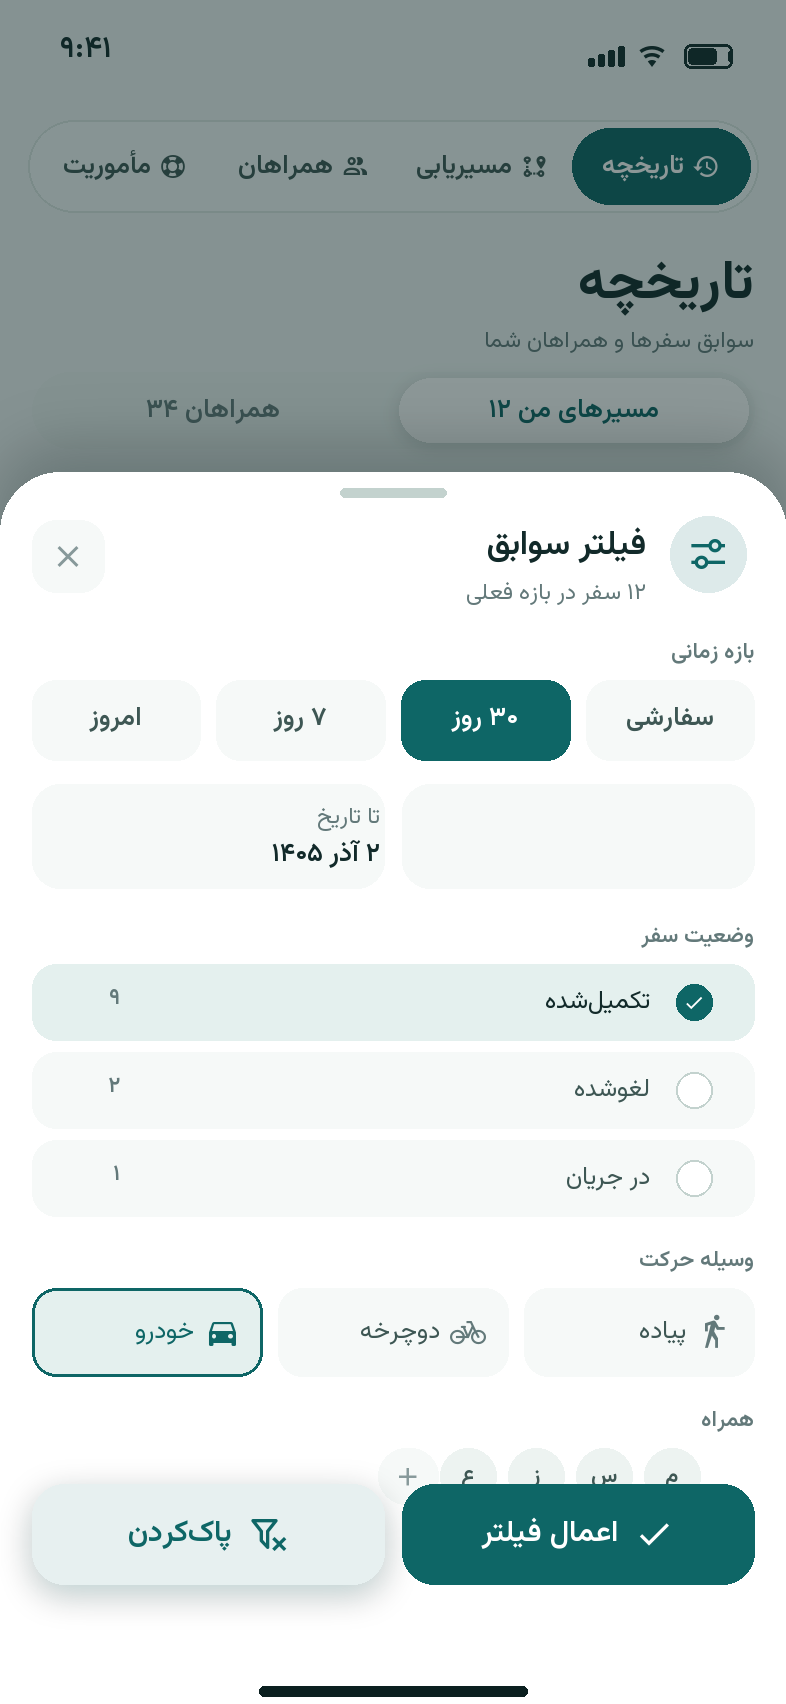
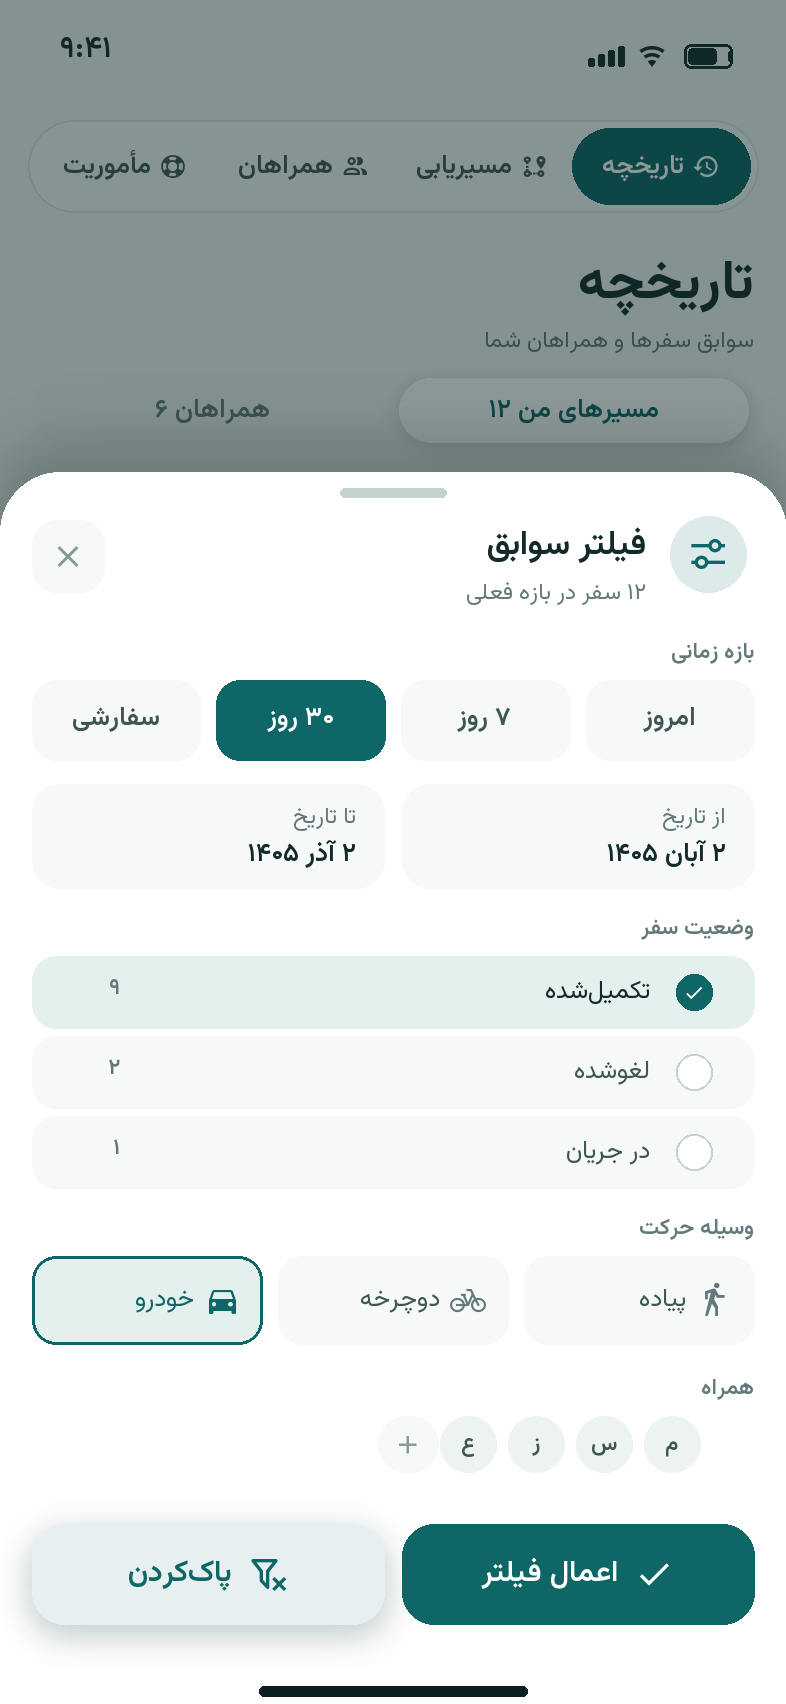
design(map): make the filter sheet and the companion counts agree with the list
- The two date fields had their labels in each other's box, so «از تاریخ» had no
  value and the sheet showed one blank field and one with two labels.
- Period presets read left-to-right while everything else in the set reads
  right-to-left; «امروز» is now the rightmost chip.
- The tab counter said «همراهان ۳۴» next to a list that says «۶ نفر». Counts are
  people now, and all three plates use the same numbers.
- Status rows lost 4px each and the action bar moved down, so the companion row
  is no longer swallowed by the sticky buttons.

diff --git a/design/map-page/_generator/screens/history.py b/design/map-page/_generator/screens/history.py
@@ -106,7 +106,7 @@ def history_user() -> Screen:
     y += 62
 
     segmented_small(s, 16, y, 361, ["مسیرهای من", "همراهان"], active=0,
-                    counts=["۱۲", "۳۴"])
+                    counts=["۱۲", "۶"])
     y += 50
 
     # search + filter row
@@ -139,7 +139,7 @@ def history_companions() -> Screen:
     s.text(377, y + 38, "سوابق سفرها و همراهان شما", "caption", C.muted, align="right")
     y += 62
     segmented_small(s, 16, y, 361, ["مسیرهای من", "همراهان"], active=1,
-                    counts=["۱۲", "۳۴"])
+                    counts=["۱۲", "۶"])
     y += 50
 
     s.rect(16, y, 265, 44, fill="#FFFFFF", radius=14, outline=C.outline, outline_w=1)
@@ -191,7 +191,7 @@ def history_filter() -> Screen:
     s.text(377, y + 38, "سوابق سفرها و همراهان شما", "caption", C.muted, align="right")
     y += 62
     segmented_small(s, 16, y, 361, ["مسیرهای من", "همراهان"], active=0,
-                    counts=["۱۲", "۳۴"])
+                    counts=["۱۲", "۶"])
     y += 50
     s.rect(16, y, 265, 44, fill="#FFFFFF", radius=14, outline=C.outline, outline_w=1)
     s.i.draw_icon(24, y + 22, "mdi-magnify", 18, C.muted_2)
@@ -200,6 +200,7 @@ def history_filter() -> Screen:
         _trip_card(s, y, item)
     scrim(s, 120, top=0, height=852)
 
+    # the sheet starts below the segmented control: covering it half-way read as a broken plate
     top = 236
     s.shadow(0, top - 10, 393, 852 - top + 20, radius=30, blur=26, dy=-2, alpha=60)
     s.rect(0, top, 393, 852 - top + 2, fill="#FFFFFF", radius=30)
@@ -215,7 +216,7 @@ def history_filter() -> Screen:
     periods = ["امروز", "۷ روز", "۳۰ روز", "سفارشی"]
     tile_w = (361 - 24) / 4
     for index, label in enumerate(periods):
-        tx = 16 + index * (tile_w + 8)
+        tx = 16 + (len(periods) - 1 - index) * (tile_w + 8)
         active = index == 2
         s.rect(tx, y, tile_w, 40, fill=C.primary if active else C.surface_2, radius=12)
         s.text(tx + tile_w / 2, y + 10, label, "label", "#FFFFFF" if active else C.text_2,
@@ -223,27 +224,28 @@ def history_filter() -> Screen:
     y += 52
 
     # date inputs
-    s.rect(16, y, 176, 52, fill=C.surface_2, radius=14)
-    s.text(357 - 6, y + 8, "از تاریخ", "caption", C.muted, align="right")
-    s.text(357 - 6, y + 26, "۲ آبان ۱۴۰۵", "label", C.text, align="right")
+    # RTL: "from" is the right-hand field
     s.rect(201, y, 176, 52, fill=C.surface_2, radius=14)
-    s.text(196 - 6, y + 8, "تا تاریخ", "caption", C.muted, align="right")
-    s.text(196 - 6, y + 26, "۲ آذر ۱۴۰۵", "label", C.text, align="right")
-    y += 68
+    s.text(377 - 14, y + 8, "از تاریخ", "caption", C.muted, align="right")
+    s.text(377 - 14, y + 26, "۲ آبان ۱۴۰۵", "label", C.text, align="right")
+    s.rect(16, y, 176, 52, fill=C.surface_2, radius=14)
+    s.text(192 - 14, y + 8, "تا تاریخ", "caption", C.muted, align="right")
+    s.text(192 - 14, y + 26, "۲ آذر ۱۴۰۵", "label", C.text, align="right")
+    y += 64
 
     s.text(377, y, "وضعیت سفر", "caption-bold", C.muted, align="right")
     y += 22
     for index, (label, count, active) in enumerate([("تکمیلشده", "۹", True), ("لغوشده", "۲", False),
                                                     ("در جریان", "۱", False)]):
-        ry = y + index * 44
-        s.rect(16, ry, 361, 38, fill=C.primary_soft if active else C.surface_2, radius=12)
-        s.circle(347, ry + 19, 9, fill=C.primary if active else "#FFFFFF",
+        ry = y + index * 40
+        s.rect(16, ry, 361, 36, fill=C.primary_soft if active else C.surface_2, radius=12)
+        s.circle(347, ry + 18, 9, fill=C.primary if active else "#FFFFFF",
                  outline=None if active else C.outline_strong, outline_w=0 if active else 1.2)
         if active:
-            s.i.draw_icon(347, ry + 19, "mdi-check", 11, "#FFFFFF")
-        s.text(325, ry + 9, label, "body-sm", C.text if active else C.text_2, align="right")
-        s.text(60, ry + 9, count, "caption-bold", C.muted, align="right")
-    y += 3 * 44 + 8
+            s.i.draw_icon(347, ry + 18, "mdi-check", 11, "#FFFFFF")
+        s.text(325, ry + 8, label, "body-sm", C.text if active else C.text_2, align="right")
+        s.text(60, ry + 8, count, "caption-bold", C.muted, align="right")
+    y += 3 * 40 + 8
 
     s.text(377, y, "وسیلهٔ حرکت", "caption-bold", C.muted, align="right")
     y += 22
@@ -269,9 +271,10 @@ def history_filter() -> Screen:
     s.rect(cx - 32, y, 30, 28, fill=C.surface_2, radius=14)
     s.i.draw_icon(cx - 17, y + 14, "mdi-plus", 15, C.muted_2)
 
-    s.shadow(16, 742, 176, 50, radius=16, blur=14, dy=5, color=C.primary, alpha=70)
-    s.button(201, 742, 176, 50, "اعمال فیلتر", icon="mdi-check", variant="filled")
-    s.button(16, 742, 176, 50, "پاککردن", icon="mdi-filter-remove-outline", variant="tonal")
+    assert y + 30 < 756, f"filter sheet content runs into the action bar (ends at {y + 30:.0f})"
+    s.shadow(16, 762, 176, 50, radius=16, blur=14, dy=5, color=C.primary, alpha=70)
+    s.button(201, 762, 176, 50, "اعمال فیلتر", icon="mdi-check", variant="filled")
+    s.button(16, 762, 176, 50, "پاککردن", icon="mdi-filter-remove-outline", variant="tonal")
     home_bar(s)
     return s
 
